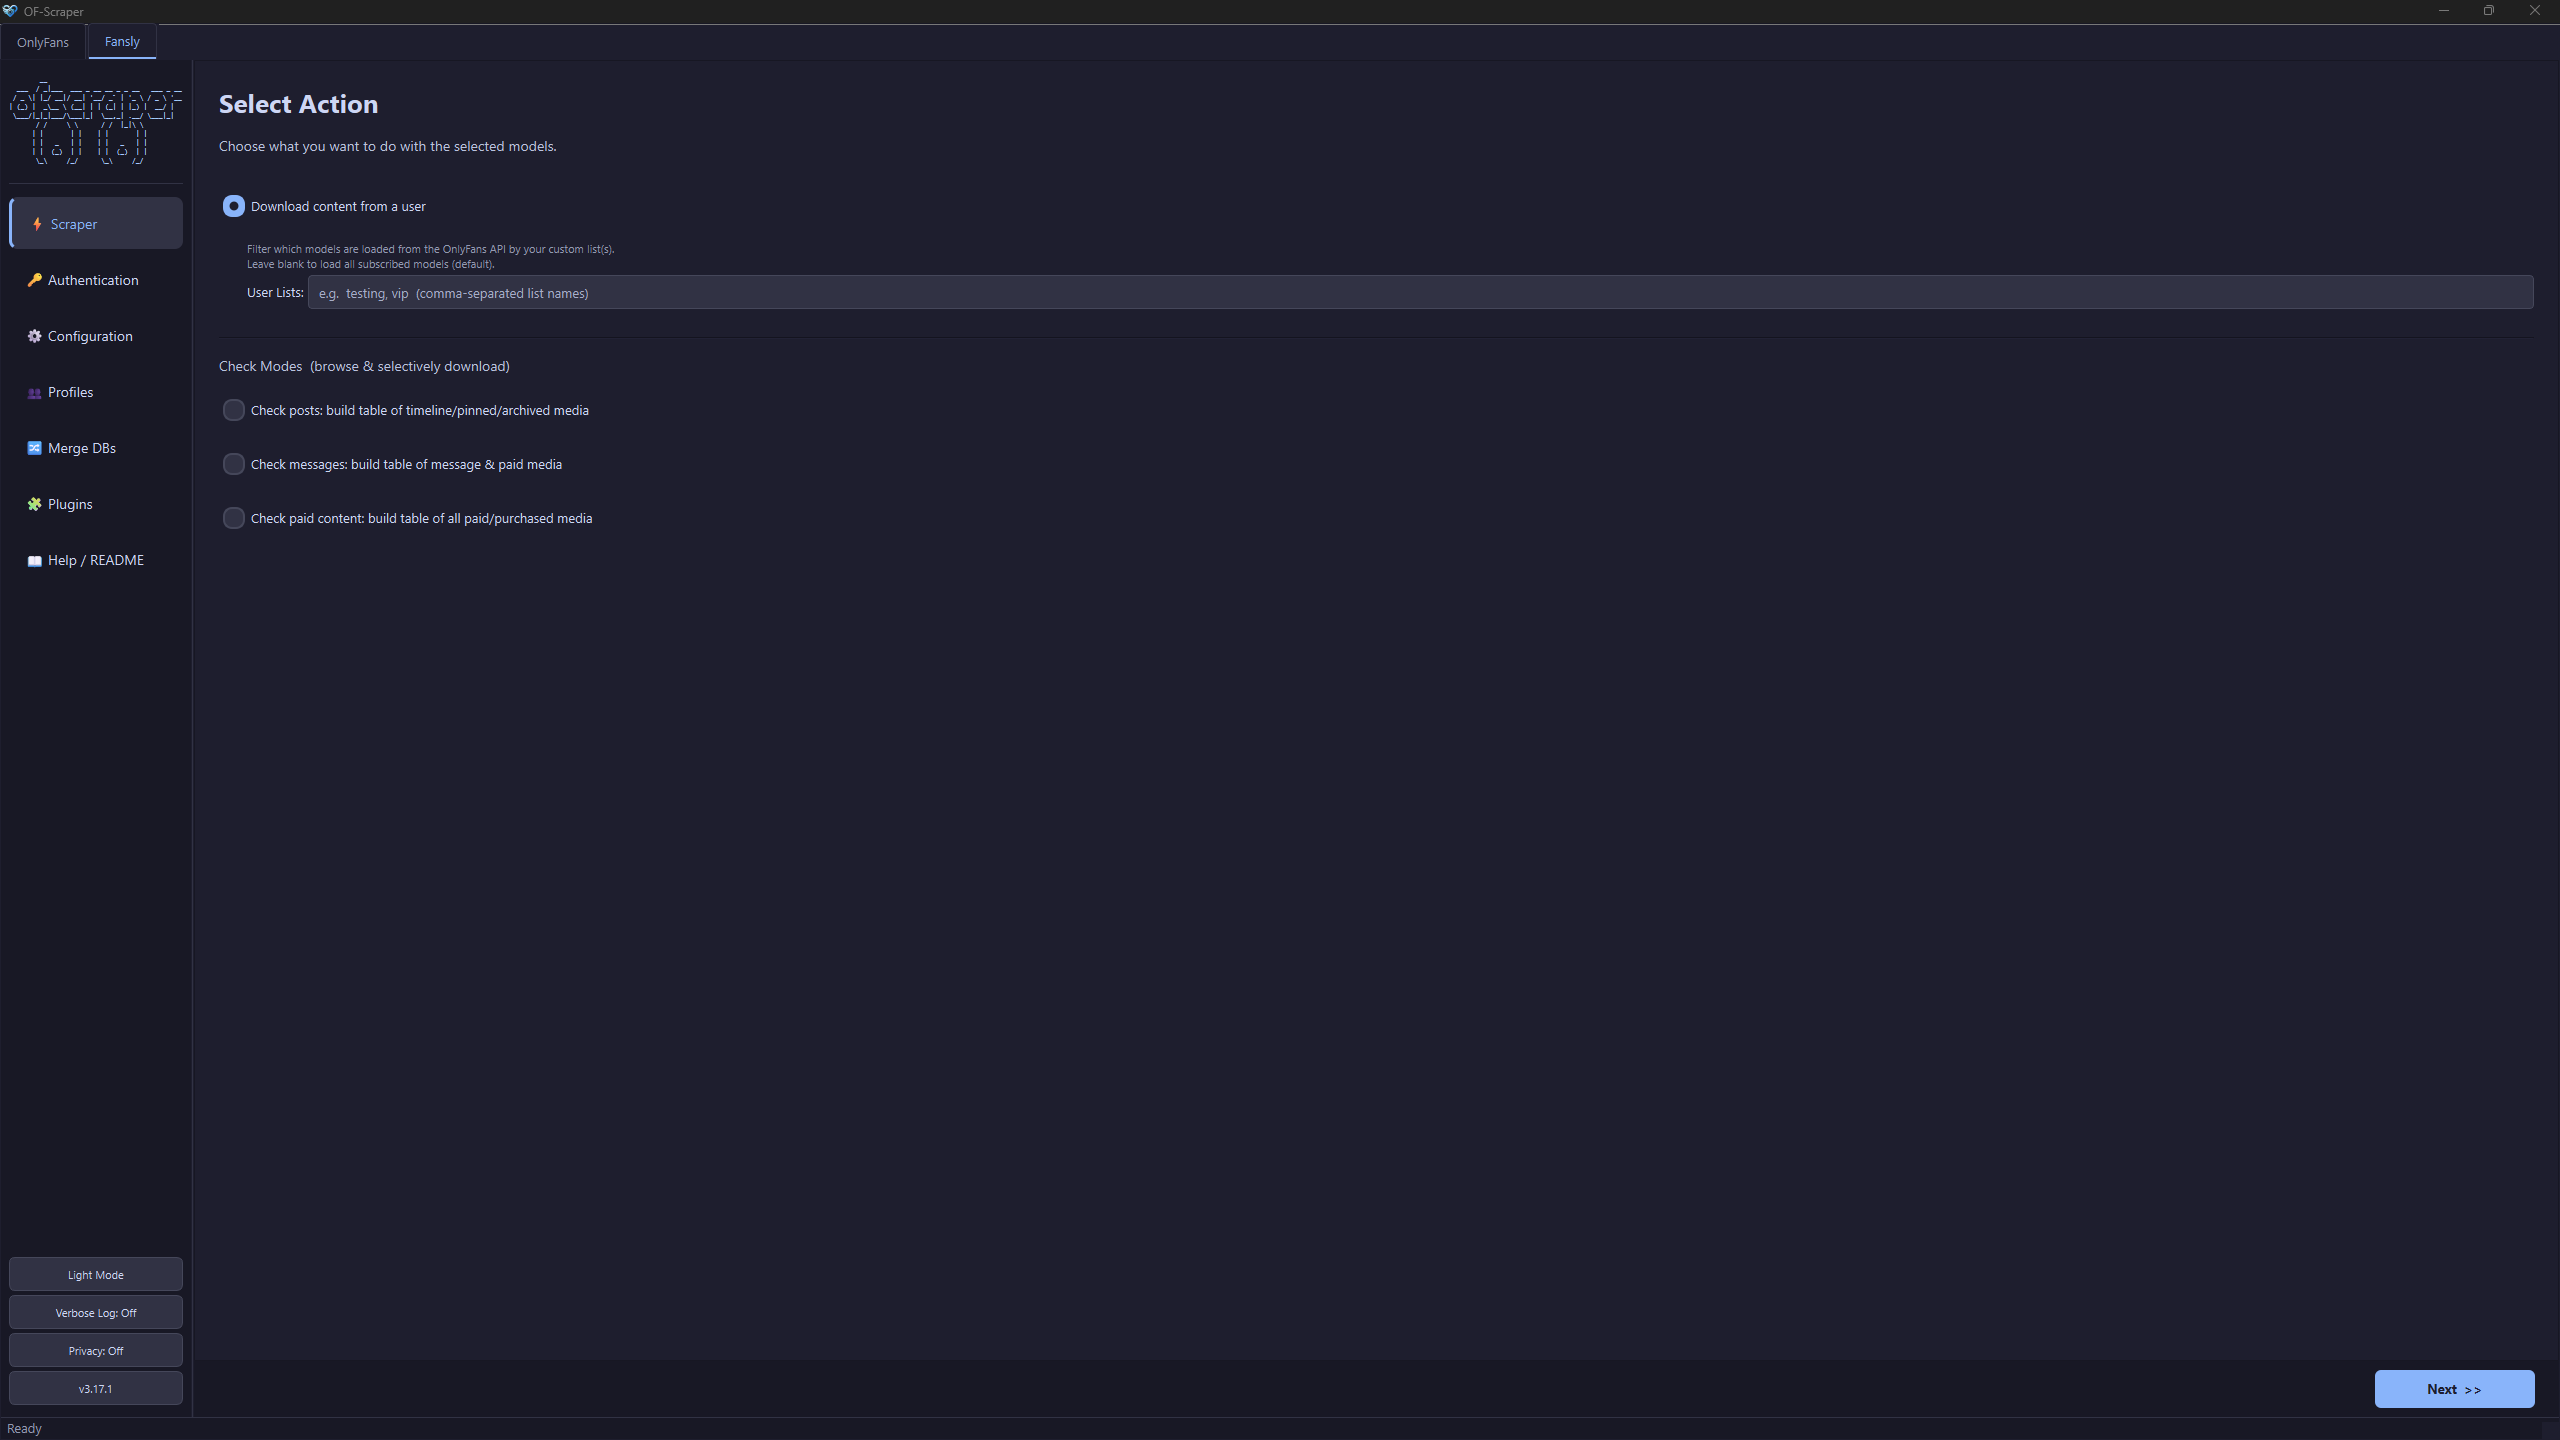
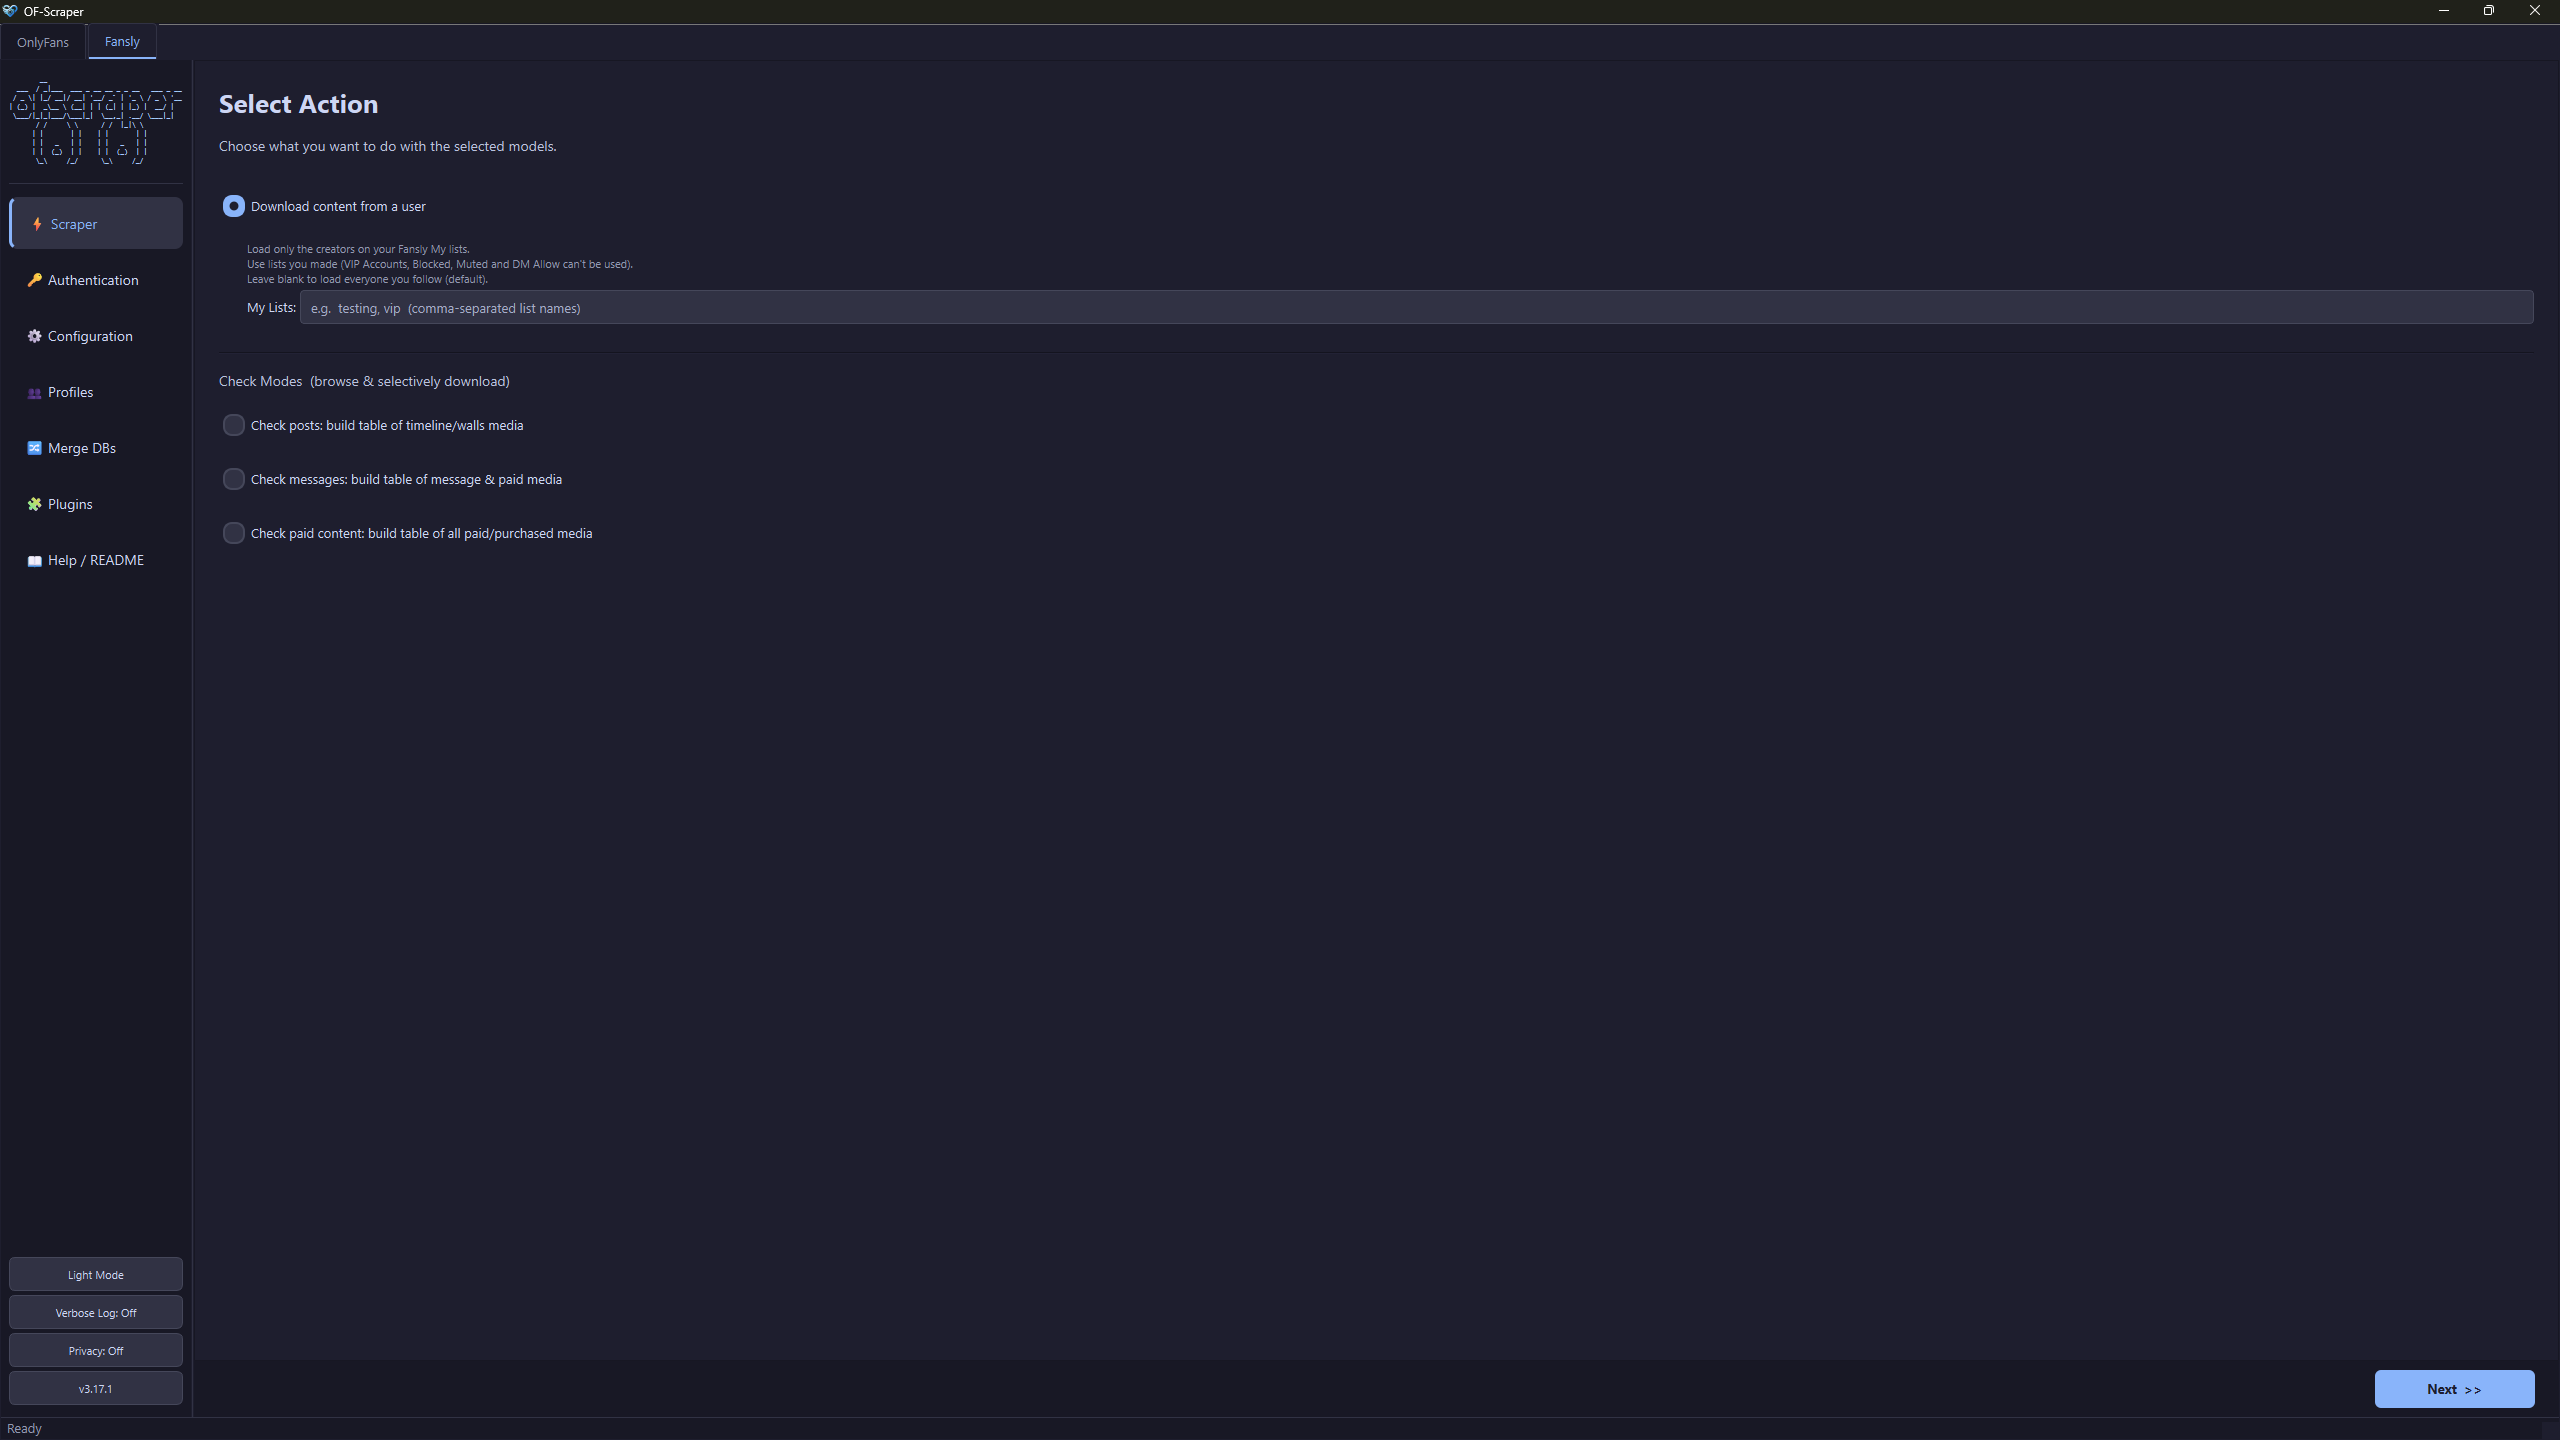
Docs: Fansly Select Action screenshot with My Lists (v481)

Changed region(s): [[0.0938, 0.25, 0.25, 0.375], [0.0938, 0.1562, 0.25, 0.2188]]

diff --git a/docs/gui-guide.md b/docs/gui-guide.md
@@ -453,7 +453,7 @@ The usual flow is **Select Action → Select Content Areas & Filters → Select 
 <table>
   <tr>
     <td align="center"><img src="images/Select-Action-OnlyFans.png" width="100%" alt="Select Action on the OnlyFans tab (3.17.1): Download content from a user (with the User Lists box), like/unlike, download + like/unlike, scrape by URL, Update metadata, Download all purchased content, and the Check Modes"><br><em>OnlyFans tab</em></td>
-    <td align="center"><img src="images/Select-Action-Fansly.png" width="100%" alt="Select Action on the Fansly tab: Download content from a user and the Check Modes for posts, messages and paid content; the OnlyFans-only actions are hidden"><br><em>Fansly tab</em></td>
+    <td align="center"><img src="images/Select-Action-Fansly.png" width="100%" alt="Select Action on the Fansly tab: Download content from a user with the My Lists box (lists you made on Fansly), and the Check Modes for timeline/walls posts, messages and paid content; the OnlyFans-only actions are hidden"><br><em>Fansly tab</em></td>
   </tr>
 </table>
 
